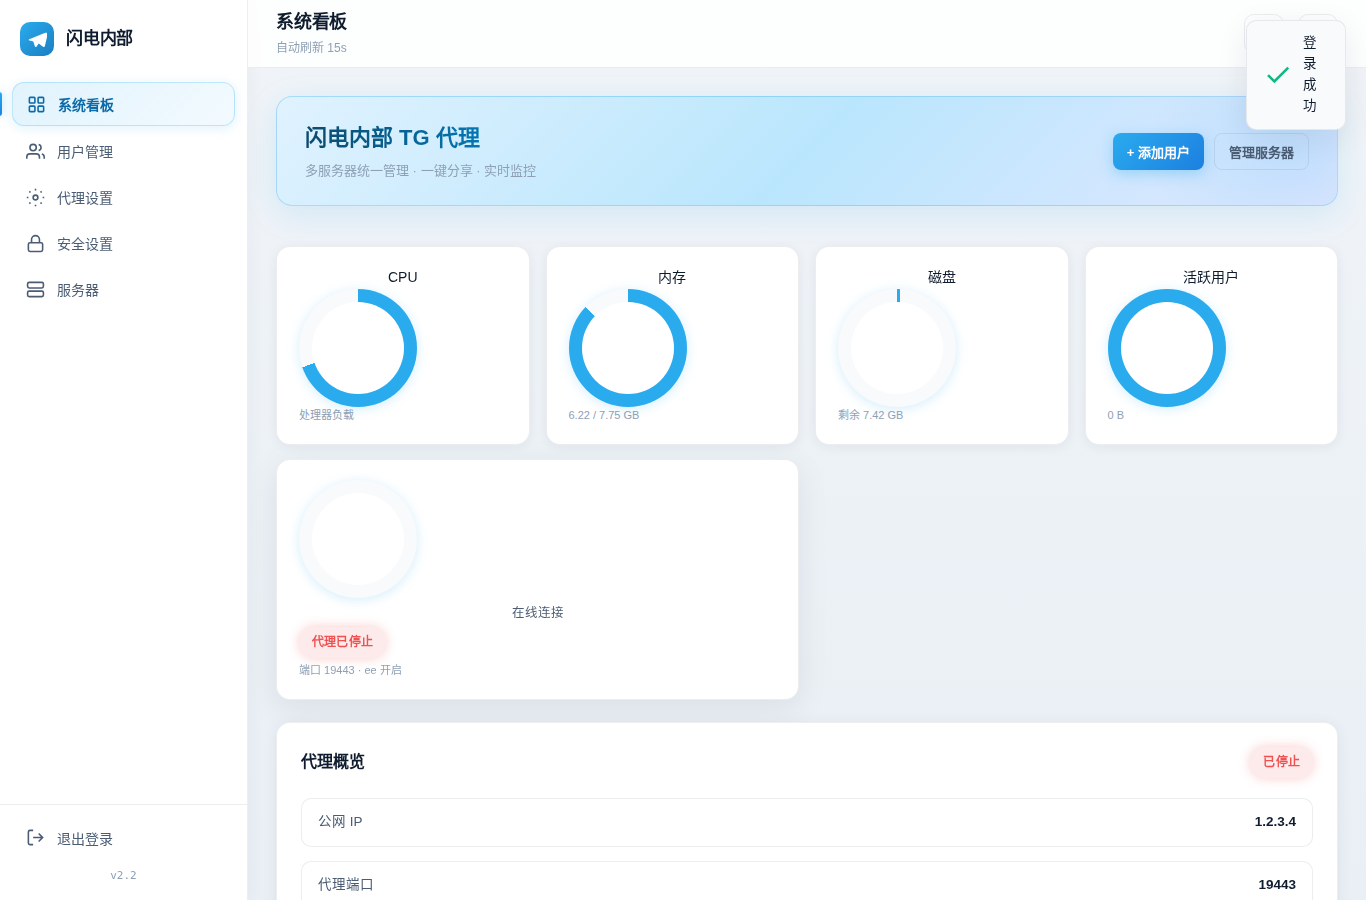
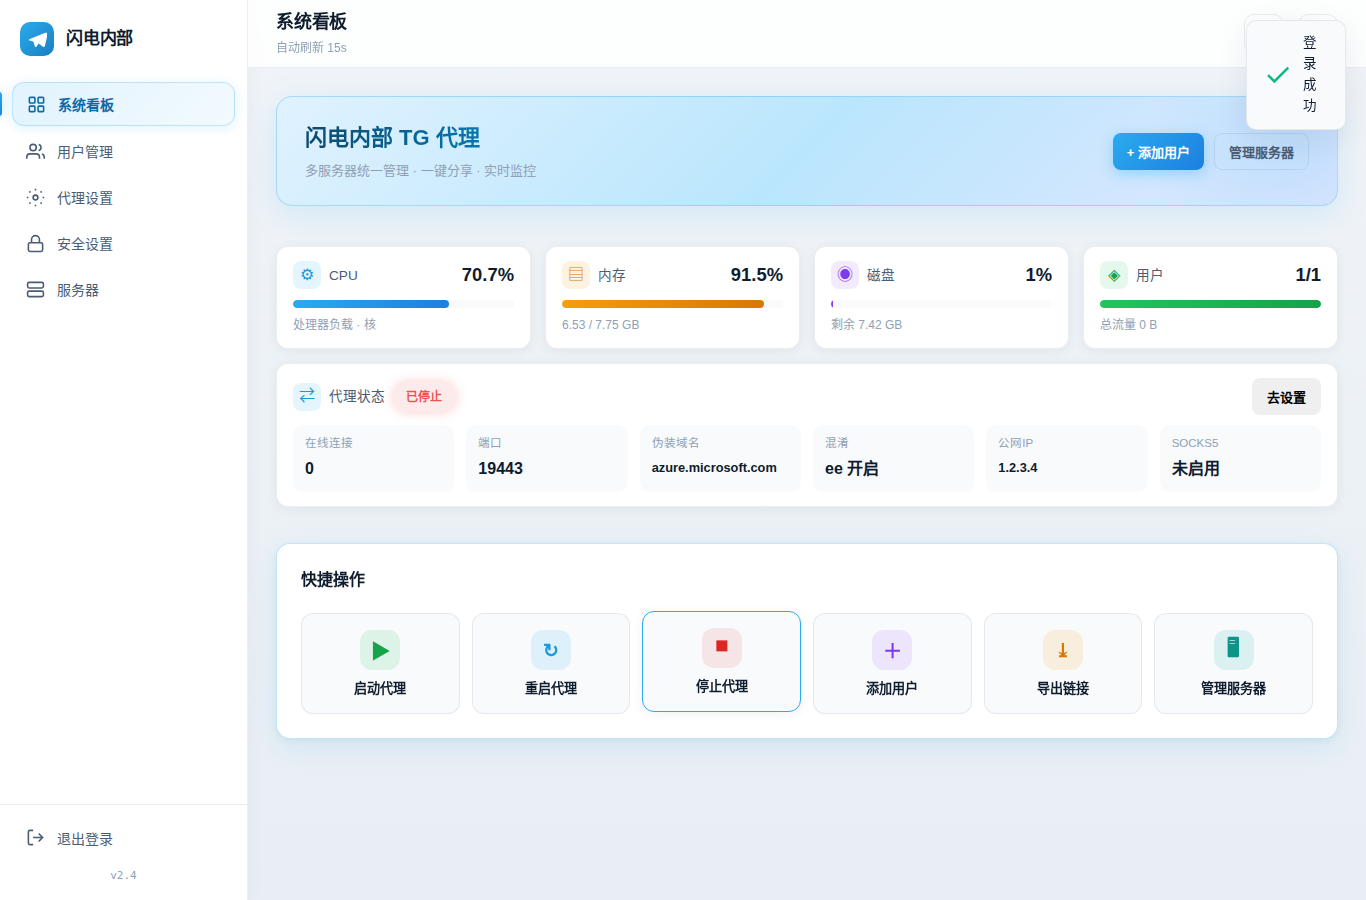
仪表盘重做：密集信息卡片 + 快捷操作，移除冗余代理概览

diff --git a/panel/static/app.js b/panel/static/app.js
@@ -174,37 +174,47 @@ function renderStats(data) {
   const { system: sys, proxy, stats } = data;
   const grid = document.getElementById('stats-grid');
 
+  const barHtml = (pct, color) => `
+    <div class="dense-bar"><div class="dense-bar-fill" style="width:${Math.min(pct,100)}%;background:${color}"></div></div>`;
+
   grid.innerHTML = `
-    ${donutHtml(sys.cpu_percent, `${sys.cpu_percent}%`, 'CPU', '处理器负载', 'var(--primary)')}
-    ${donutHtml(sys.memory_percent, `${sys.memory_percent}%`, '内存', `${sys.memory_used_gb} / ${sys.memory_total_gb} GB`, 'var(--warning)')}
-    ${donutHtml(sys.disk_percent, `${sys.disk_percent}%`, '磁盘', `剩余 ${sys.disk_free_gb} GB`, 'var(--purple)')}
-    ${donutHtml(
-      stats.total_users ? (stats.active_users / stats.total_users * 100) : 0,
-      `${stats.active_users}/${stats.total_users}`,
-      '活跃用户', stats.total_traffic_human, 'var(--success)'
-    )}
-    <div class="metric-card metric-wide">
-      <div class="donut" style="--pct:${proxy.connections > 0 ? Math.min(proxy.connections * 10, 100) : 0};--donut-color:var(--cyan)">
-        <span class="donut-value">${proxy.connections}</span>
+    <div class="dense-card">
+      <div class="dense-card-head"><span class="dense-icon" style="background:rgba(42,171,238,.12);color:#1d9ad8">⚙</span><span>CPU</span><b>${sys.cpu_percent}%</b></div>
+      ${barHtml(sys.cpu_percent, 'linear-gradient(90deg,#2aabee,#1d7fe0)')}
+      <div class="dense-card-sub">处理器负载 · ${sys.cpu_count || ''}核</div>
+    </div>
+    <div class="dense-card">
+      <div class="dense-card-head"><span class="dense-icon" style="background:rgba(245,158,11,.12);color:#d97706">▤</span><span>内存</span><b>${sys.memory_percent}%</b></div>
+      ${barHtml(sys.memory_percent, 'linear-gradient(90deg,#f59e0b,#d97706)')}
+      <div class="dense-card-sub">${sys.memory_used_gb} / ${sys.memory_total_gb} GB</div>
+    </div>
+    <div class="dense-card">
+      <div class="dense-card-head"><span class="dense-icon" style="background:rgba(168,85,247,.12);color:#7c3aed">◉</span><span>磁盘</span><b>${sys.disk_percent}%</b></div>
+      ${barHtml(sys.disk_percent, 'linear-gradient(90deg,#a855f7,#7c3aed)')}
+      <div class="dense-card-sub">剩余 ${sys.disk_free_gb} GB</div>
+    </div>
+    <div class="dense-card">
+      <div class="dense-card-head"><span class="dense-icon" style="background:rgba(34,197,94,.12);color:#16a34a">◈</span><span>用户</span><b>${stats.active_users}/${stats.total_users}</b></div>
+      ${barHtml(stats.total_users ? stats.active_users/stats.total_users*100 : 0, 'linear-gradient(90deg,#22c55e,#16a34a)')}
+      <div class="dense-card-sub">总流量 ${stats.total_traffic_human}</div>
+    </div>
+    <div class="dense-card dense-wide">
+      <div class="dense-card-head">
+        <span class="dense-icon" style="background:rgba(42,171,238,.12);color:#1d9ad8">⇄</span>
+        <span>代理状态</span>
+        ${proxy.running ? '<span class="badge on">运行中</span>' : '<span class="badge danger">已停止</span>'}
+        <span style="flex:1"></span>
+        <button class="btn btn-sm" onclick="showPage('proxy')">去设置</button>
       </div>
-      <div class="metric-body">
-        <div class="donut-label">在线连接</div>
-        <div style="font-size:1.1rem;font-weight:600;margin:4px 0">
-          ${proxy.running ? '<span class="badge on">代理运行中</span>' : '<span class="badge danger">代理已停止</span>'}
-        </div>
-        <div class="donut-sub">端口 ${proxy.port} · ${tlsLabel(proxy.fake_tls_mode)}</div>
+      <div class="dense-proxy-grid">
+        <div><span>在线连接</span><b>${proxy.connections}</b></div>
+        <div><span>端口</span><b>${proxy.port}</b></div>
+        <div><span>伪装域名</span><b style="font-size:.8rem">${esc(proxy.domain || '-')}</b></div>
+        <div><span>混淆</span><b>${tlsLabel(proxy.fake_tls_mode)}</b></div>
+        <div><span>公网IP</span><b style="font-size:.8rem">${esc(proxy.public_ip)}</b></div>
+        <div><span>SOCKS5</span><b>${proxy.socks5_running ? '运行中' : '未启用'}</b></div>
       </div>
     </div>
-  `;
-
-  document.getElementById('proxy-status-badge').innerHTML =
-    proxy.running ? '<span class="badge on">运行中</span>' : '<span class="badge danger">已停止</span>';
-
-  document.getElementById('proxy-info').innerHTML = `
-    <div class="proxy-info-item"><div class="label">公网 IP</div><div class="value">${esc(proxy.public_ip)}</div></div>
-    <div class="proxy-info-item"><div class="label">代理端口</div><div class="value">${proxy.port}</div></div>
-    <div class="proxy-info-item"><div class="label">伪装域名</div><div class="value">${esc(proxy.domain || '-')}</div></div>
-    <div class="proxy-info-item"><div class="label">混淆模式</div><div class="value">${tlsLabel(proxy.fake_tls_mode)}</div></div>
   `;
 
   const uc = document.getElementById('user-count');

diff --git a/panel/static/style.css b/panel/static/style.css
@@ -976,3 +976,117 @@ input:focus, select:focus {
   border-color: var(--accent) !important;
   box-shadow: 0 0 0 3px rgba(42, 171, 238, 0.12) !important;
 }
+
+/* ============ 密集信息卡片 ============ */
+#stats-grid {
+  display: grid;
+  grid-template-columns: repeat(4, 1fr);
+  gap: 14px;
+  margin-bottom: 18px;
+}
+.dense-card {
+  background: var(--surface);
+  border: 1px solid var(--border);
+  border-radius: 12px;
+  padding: 14px 16px;
+  box-shadow: var(--shadow-sm);
+}
+.dense-wide { grid-column: span 4; }
+.dense-card-head {
+  display: flex;
+  align-items: center;
+  gap: 8px;
+  font-size: 0.85rem;
+  color: var(--text-secondary);
+  margin-bottom: 10px;
+}
+.dense-card-head b {
+  margin-left: auto;
+  font-size: 1.15rem;
+  color: var(--text);
+  font-variant-numeric: tabular-nums;
+}
+.dense-icon {
+  width: 28px; height: 28px;
+  display: inline-flex; align-items: center; justify-content: center;
+  border-radius: 8px;
+  font-size: 1rem;
+}
+.dense-bar {
+  height: 8px;
+  background: var(--surface-2);
+  border-radius: 99px;
+  overflow: hidden;
+  margin-bottom: 8px;
+}
+.dense-bar-fill {
+  height: 100%;
+  border-radius: 99px;
+  transition: width 0.5s;
+}
+.dense-card-sub {
+  font-size: 0.75rem;
+  color: var(--text-muted);
+}
+.dense-proxy-grid {
+  display: grid;
+  grid-template-columns: repeat(6, 1fr);
+  gap: 12px;
+  margin-top: 6px;
+}
+.dense-proxy-grid > div {
+  background: var(--surface-2);
+  border-radius: 10px;
+  padding: 10px 12px;
+}
+.dense-proxy-grid span {
+  display: block;
+  font-size: 0.72rem;
+  color: var(--text-muted);
+  margin-bottom: 4px;
+}
+.dense-proxy-grid b {
+  font-size: 1rem;
+  font-variant-numeric: tabular-nums;
+}
+@media (max-width: 900px) {
+  #stats-grid { grid-template-columns: repeat(2, 1fr); }
+  .dense-wide { grid-column: span 2; }
+  .dense-proxy-grid { grid-template-columns: repeat(3, 1fr); }
+}
+
+/* ============ 快捷操作 ============ */
+.quick-actions {
+  display: grid;
+  grid-template-columns: repeat(6, 1fr);
+  gap: 12px;
+}
+.qa-btn {
+  display: flex;
+  flex-direction: column;
+  align-items: center;
+  gap: 8px;
+  padding: 16px 8px;
+  background: var(--surface-2);
+  border: 1px solid var(--border);
+  border-radius: 12px;
+  cursor: pointer;
+  font-size: 0.82rem;
+  color: var(--text);
+  font-weight: 600;
+  transition: all 0.2s;
+}
+.qa-btn:hover {
+  transform: translateY(-2px);
+  border-color: var(--accent);
+  box-shadow: var(--shadow-sm);
+}
+.qa-icon {
+  width: 40px; height: 40px;
+  display: inline-flex; align-items: center; justify-content: center;
+  border-radius: 12px;
+  font-size: 1.2rem;
+}
+@media (max-width: 900px) {
+  .quick-actions { grid-template-columns: repeat(3, 1fr); }
+}

diff --git a/panel/static/index.html b/panel/static/index.html
@@ -119,10 +119,34 @@
         <div class="dashboard-grid" id="stats-grid"></div>
         <div class="card">
           <div class="card-header">
-            <h2>代理概览</h2>
-            <div id="proxy-status-badge"></div>
+            <h2>快捷操作</h2>
           </div>
-          <div id="proxy-info" class="proxy-info"></div>
+          <div class="quick-actions">
+            <button class="qa-btn" onclick="proxyAction('start')">
+              <span class="qa-icon" style="background:rgba(34,197,94,.12);color:#16a34a">▶</span>
+              <span>启动代理</span>
+            </button>
+            <button class="qa-btn" onclick="proxyAction('restart')">
+              <span class="qa-icon" style="background:rgba(42,171,238,.12);color:#1d9ad8">↻</span>
+              <span>重启代理</span>
+            </button>
+            <button class="qa-btn" onclick="proxyAction('stop')">
+              <span class="qa-icon" style="background:rgba(240,82,82,.12);color:#dc2626">⏹</span>
+              <span>停止代理</span>
+            </button>
+            <button class="qa-btn" onclick="switchTab('users')">
+              <span class="qa-icon" style="background:rgba(168,85,247,.12);color:#7c3aed">＋</span>
+              <span>添加用户</span>
+            </button>
+            <button class="qa-btn" onclick="exportUsers()">
+              <span class="qa-icon" style="background:rgba(245,158,11,.12);color:#d97706">⤓</span>
+              <span>导出链接</span>
+            </button>
+            <button class="qa-btn" onclick="switchTab('nodes')">
+              <span class="qa-icon" style="background:rgba(20,184,166,.12);color:#0d9488">🖥</span>
+              <span>管理服务器</span>
+            </button>
+          </div>
         </div>
       </section>
 
